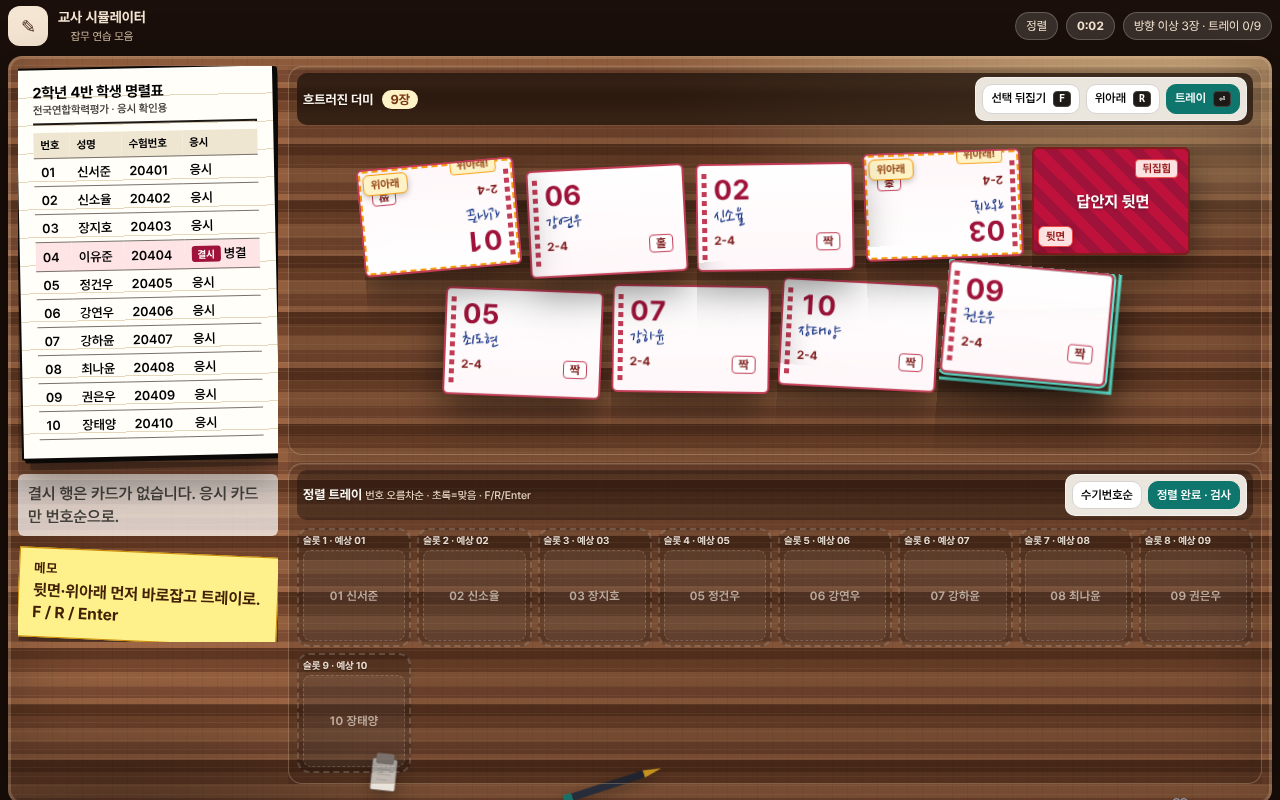
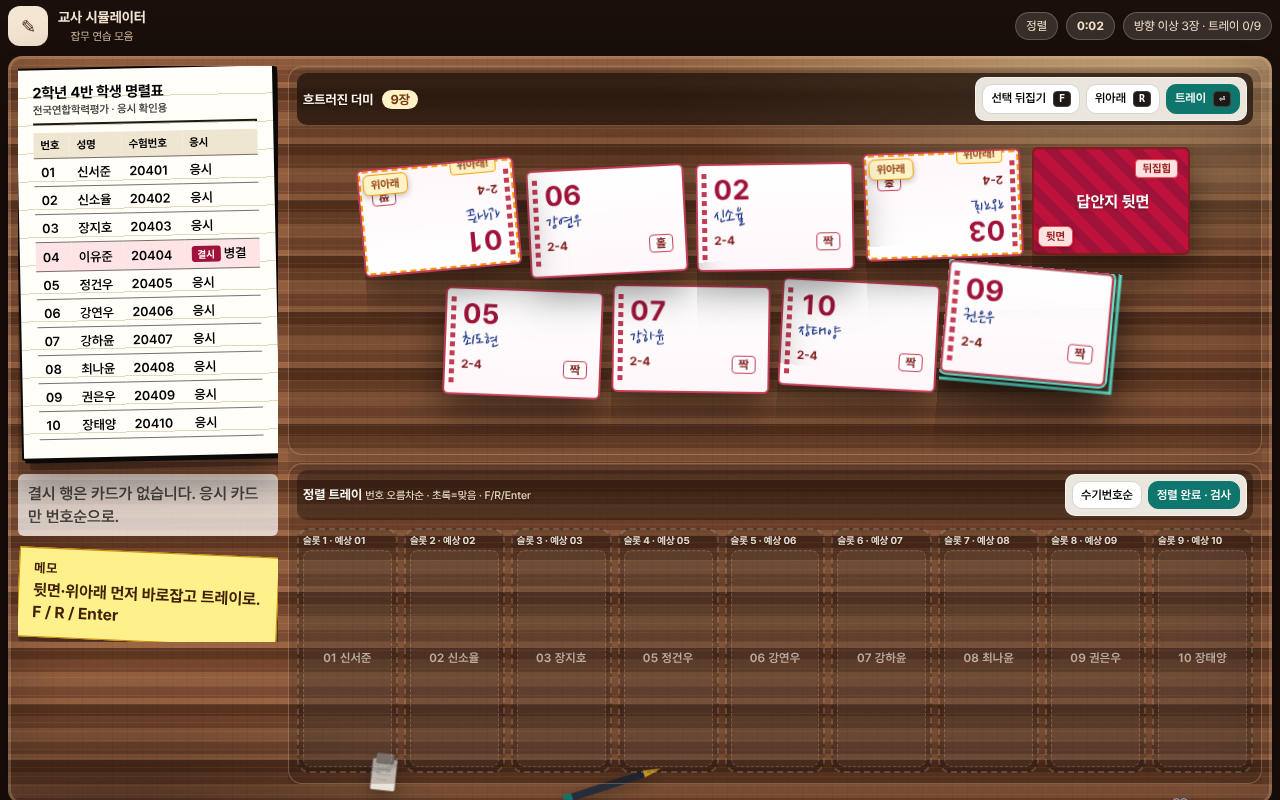
Round 0034: single-row tray on wide screens, denser results
Keep all nine tray slots on one row at ≥1180px and pack
the results commentary into a three-column grid.

diff --git a/src/style.css b/src/style.css
@@ -1191,3 +1191,26 @@ kbd {
   font-size: 15px;
   font-weight: 700;
 }
+
+/* 0034 tray single-row on wide + denser results */
+@media (min-width: 1180px) {
+  .tray-rail {
+    grid-template-columns: repeat(9, minmax(0, 1fr)) !important;
+  }
+}
+.result-list {
+  display: grid !important;
+  grid-template-columns: repeat(3, minmax(0, 1fr));
+  gap: 10px !important;
+}
+.result-list > h2 {
+  grid-column: 1 / -1;
+}
+.result-mini { max-height: 160px !important; }
+.result-mini .omr-card {
+  transform: scale(0.78) !important;
+  width: 128% !important;
+}
+@media (max-width: 1100px) {
+  .result-list { grid-template-columns: 1fr !important; }
+}

diff --git a/docs/issues/0034-tray-row-results-grid.md b/docs/issues/0034-tray-row-results-grid.md
@@ -1,0 +1,11 @@
+# 0034 Tray single row + denser results
+
+## Critique
+Tray wrapped with a lonely 9th slot; results commentary needed scroll to see all cards.
+
+## Fix
+- ≥1180px: tray `repeat(9, minmax(0,1fr))` one row
+- Results list 3-column grid, smaller mini OMR
+
+## Verify
+e2e OK · viewport OK · autosort tray 1 row, slotsOut=0

diff --git a/docs/ROUNDLOG.md b/docs/ROUNDLOG.md
@@ -28,3 +28,6 @@
 
 ## Round 0033 (01:38 KST)
 - Inspection: larger labels, sticky submit, bigger magnifier
+
+## Round 0034 (01:38 KST)
+- Wide tray 9-col row; denser results grid
